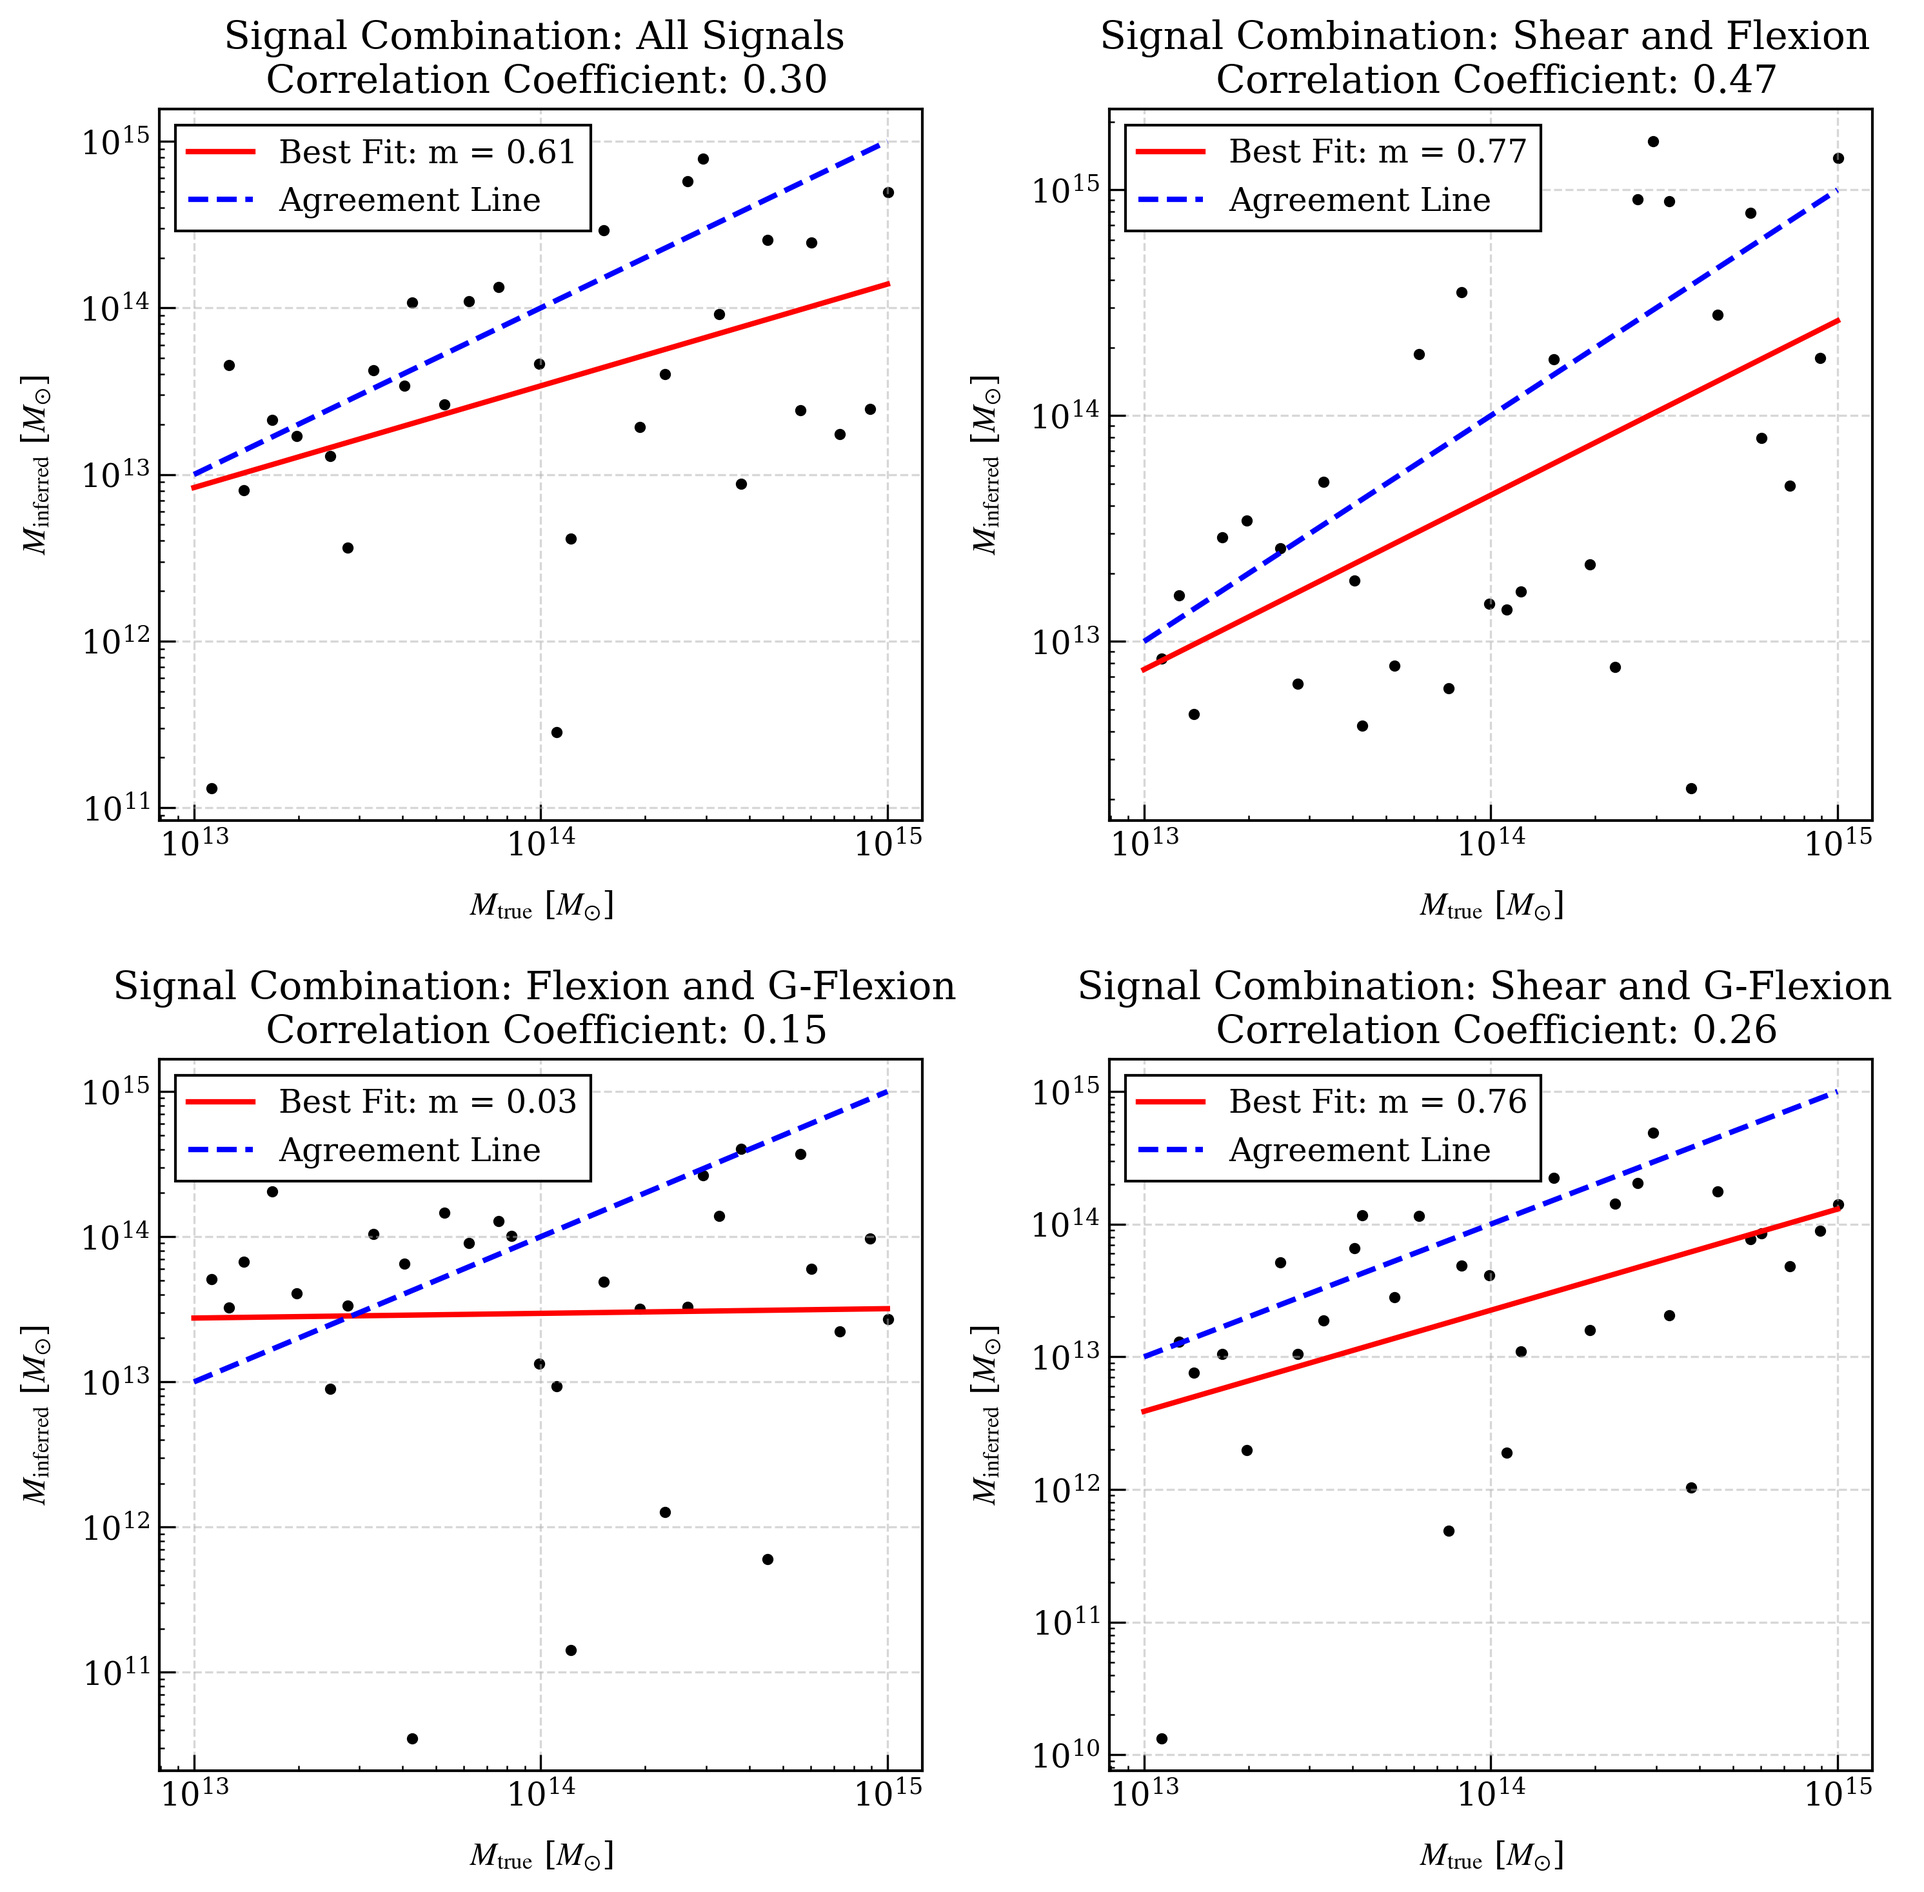
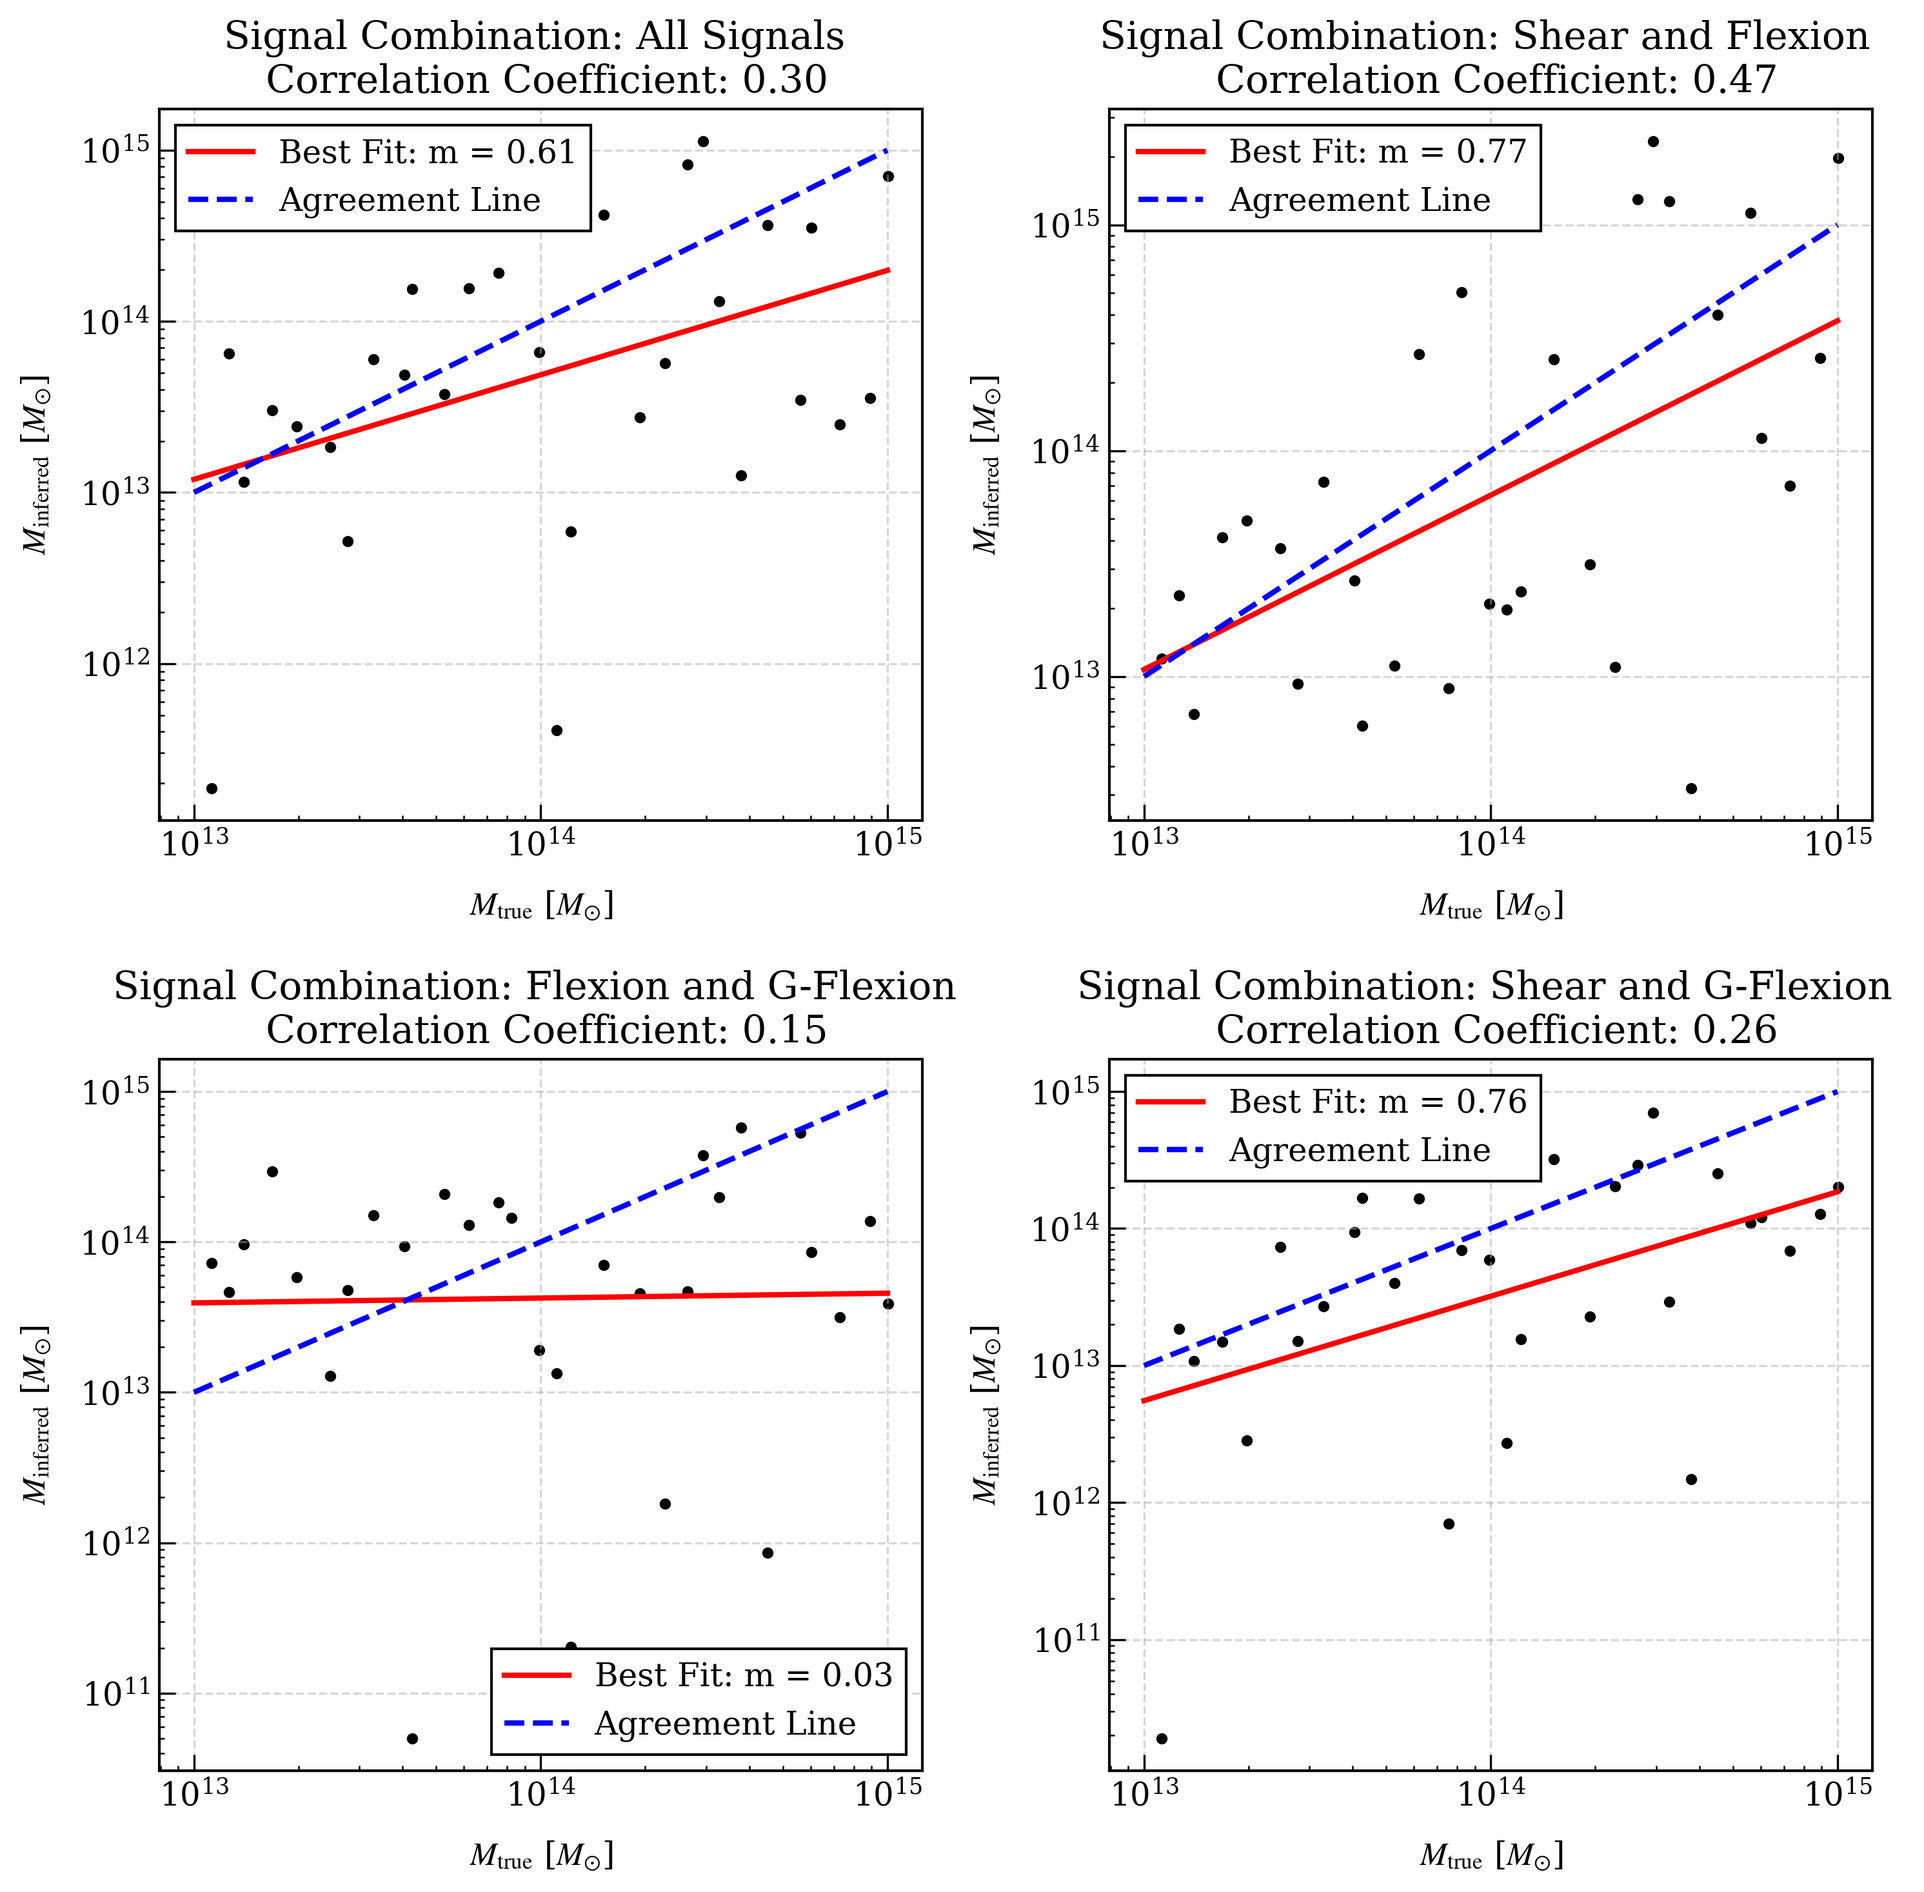
Attempt to run mdark tests in parallel

diff --git a/mdark.py b/mdark.py
@@ -7,6 +7,8 @@ import utils
 import astropy.units as u
 from astropy.cosmology import Planck15 as cosmo
 import pickle
+import concurrent.futures
+import time
 
 dir = 'MDARK/'
 column_names = ['MainHaloID', ' Total Mass', ' Redshift', 'Halo Number', ' Mass Fraction', ' Characteristic Size'] # Column names for the key files
@@ -155,8 +157,8 @@ class Halo:
         kappa_s = rho_s * rs / sigma_c
         F_s = kappa_s * Dl / rs
 
-        f1_1 = np.zeros(len(xs))
-        f1_2 = np.zeros(len(ys))
+        f1 = np.zeros(len(xs))
+        f2 = np.zeros(len(ys))
 
         for i in range(len(xs)):
             dx = xs[i] - self.x
@@ -175,10 +177,10 @@ class Halo:
 
             F_mag = (-2 * F_s / (x**2 - 1)**2) * (2 * x * term_1 - term_3) # In units of inverse radians
             F_mag /= 206265 # Convert to inverse arcseconds
-            f1_1[i] += np.sum(F_mag * np.cos(phi))
-            f1_2[i] += np.sum(F_mag * np.sin(phi))
+            f1[i] += np.sum(F_mag * np.cos(phi))
+            f2[i] += np.sum(F_mag * np.sin(phi))
 
-        return f1_1, f1_2
+        return f1, f2
 
 
     def calc_G_signal(self, xs, ys):
@@ -212,8 +214,8 @@ class Halo:
         kappa_s = rho_s * rs / sigma_c
         F_s = kappa_s * Dl / rs
 
-        f2_1 = np.zeros(len(xs))
-        f2_2 = np.zeros(len(ys))
+        g1 = np.zeros(len(xs))
+        g2 = np.zeros(len(ys))
 
         for i in range(len(xs)):
             dx = xs[i] - self.x
@@ -235,10 +237,10 @@ class Halo:
             
             G_mag = 2 * F_s * (log_term + ((3/x)*(1 - 2*x**2) + term_4) / (x**2 - 1)**2)
             G_mag /= 206265 # Convert to inverse arcseconds 
-            f2_1[i] += np.sum(G_mag * np.cos(3 * phi))
-            f2_2[i] += np.sum(G_mag * np.sin(3 * phi))
+            g1[i] += np.sum(G_mag * np.cos(3 * phi))
+            g2[i] += np.sum(G_mag * np.sin(3 * phi))
         
-        return f2_1, f2_2
+        return g1, g2
 
 
 def fix_file(z):
@@ -508,7 +510,6 @@ def build_lensing_field(halos, z):
     lenses.y -= centroid[1] + np.random.uniform(-10, 10)
 
     xmax = np.max((lenses.x**2 + lenses.y**2)**0.5)
-    print('xmax: {}'.format(xmax))
     
     # Don't allow the field of view to be larger than 2 arcminutes - or smaller than 1 arcminute
     xmax = np.min([xmax, 2*60])
@@ -650,6 +651,8 @@ def build_mass_correlation_plot(file_name, plot_name):
     mass_f_g = results[' Mass_F_G'].values
     mass_gamma_g = results[' Mass_gamma_G'].values
     masses = [mass, mass_gamma_f, mass_f_g, mass_gamma_g]
+    # True mass is in units of M_sun / h - convert others to the same units
+    masses = [mass / h for mass in masses]
     signals = ['All Signals', 'Shear and Flexion', 'Flexion and G-Flexion', 'Shear and G-Flexion']
 
     '''
@@ -696,56 +699,133 @@ def build_mass_correlation_plot(file_name, plot_name):
     plt.show()
 
 
+def run_single_test(ID, z, N_test, signal_choices, result_file):
+    # Run the pipeline for a single cluster, with a given set of signal choices
+    # N_test times. Save the results to a file
+
+    all_masses = []
+    all_candidate_numbers = []
+
+    for _ in range(N_test):
+        halos = find_halos(int(ID), z)
+        true_mass = np.sum(halos.mass)
+
+        halos, sources, xmax = build_lensing_field(halos, z)
+        masses = []
+        candidate_number = []
+
+        for signal_choice in signal_choices:
+            candidate_lenses, _ = pipeline.fit_lensing_field(sources, xmax, flags=False, use_flags=signal_choice)
+            mass = compute_masses(candidate_lenses, z)
+            masses.append(mass)
+            candidate_number.append(len(candidate_lenses.x))
+
+        all_masses.append(masses)
+        all_candidate_numbers.append(candidate_number)
+        print('Finished test {} for ID {}'.format(_, ID))
+
+    # Calculate mean and standard deviation for each type of mass and candidate number
+    mean_masses = np.mean(all_masses, axis=0)
+    std_masses = np.std(all_masses, axis=0)
+    mean_candidate_numbers = np.mean(all_candidate_numbers, axis=0)
+    std_candidate_numbers = np.std(all_candidate_numbers, axis=0)
+    print('Results for ID {}:'.format(ID))
+
+    result = '{}, {}, {}, {}, {}, {}, {}, {}, {}, {}, {}, {}, {}, {}, {}, {}\n'.format(
+        ID, true_mass, 
+        *mean_masses, *std_masses, 
+        len(halos.mass), 
+        *mean_candidate_numbers, *std_candidate_numbers)
+
+    with open(result_file, 'a') as f:
+        f.write(result)
+
+
+def run_test_parallel(ID_file, result_file, z, N_test):
+    IDs = []
+
+    with open(ID_file, 'r') as f:
+        lines = f.readlines()[1:]
+        for line in lines:
+            ID = line.split(',')[0]
+            IDs.append(ID)
+    IDs = IDs[:10] # Just use the first 10 IDs for testing
+
+    header = 'ID, True Mass, Mean Mass_all_signals, Std Mass_all_signals, Mean Mass_gamma_F, Std Mass_gamma_F, Mean Mass_F_G, Std Mass_F_G, Mean Mass_gamma_G, Std Mass_gamma_G, N_halos, Mean Nfound_all_signals, Std Nfound_all_signals, Mean Nfound_gamma_F, Std Nfound_gamma_F, Mean Nfound_F_G, Std Nfound_F_G, Mean Nfound_gamma_G, Std Nfound_gamma_G\n'
+    with open(result_file, 'w') as f:
+        f.write(header)
+
+    signal_choices = [
+        [True, True, True], # All signals
+        [True, True, False], # Shear and flexion
+        [False, True, True], # Flexion and g-flexion
+        [True, False, True] # Shear and g-flexion
+    ]
+
+    with concurrent.futures.ProcessPoolExecutor(max_workers=4) as executor:
+        futures = [executor.submit(run_single_test, ID, z, N_test, signal_choices, result_file) for ID in IDs]
+
+
+
+def build_mass_correlation_plot_errors(file_name, plot_name):
+    # Open the results file and read in the data
+    results = pd.read_csv(file_name)
+    # Get the mass and true mass
+    true_mass = results[' True Mass'].values
+    mean_masses = results[[' Mean Mass_all_signals', ' Mean Mass_gamma_F', ' Mean Mass_F_G', ' Mean Mass_gamma_G']].values
+    std_masses = results[[' Std Mass_all_signals', ' Std Mass_gamma_F', ' Std Mass_F_G', ' Std Mass_gamma_G']].values
+    signals = ['All Signals', 'Shear and Flexion', 'Flexion and G-Flexion', 'Shear and G-Flexion']
+
+    # Plot the results for each signal combination
+    fig, ax = plt.subplots(2, 2, figsize=(10, 10))
+    ax = ax.flatten()
+
+    for i in range(4):
+        # true_mass_temp = true_mass[masses[i] > 0]
+        # masses[i] = masses[i][masses[i] > 0]
+        true_mass_temp = true_mass
+        mean_masses_temp = mean_masses[:, i]
+        std_masses_temp = std_masses[:, i]
+
+        mean_masses_temp = np.abs(mean_masses_temp)
+        if mean_masses_temp.min() == 0:
+            true_mass_temp = true_mass_temp[mean_masses_temp > 0]
+            mean_masses_temp = mean_masses_temp[mean_masses_temp > 0]
+            std_masses_temp = std_masses_temp[mean_masses_temp > 0]
+
+        ax[i].errorbar(true_mass_temp, mean_masses_temp, yerr=std_masses_temp, fmt='o', color='black')
+        ax[i].set_xscale('log')
+        ax[i].set_yscale('log')
+        # Add a line of best fit
+        x = np.linspace(1e13, 1e15, 100)
+        try:
+            m, b = np.polyfit(np.log10(true_mass_temp), np.log10(mean_masses_temp), 1)
+            ax[i].plot(x, 10**(m*np.log10(x) + b), color='red', label='Best Fit: m = {:.2f}'.format(m))
+        except:
+            print('RuntimeWarning: Skipping line of best fit')
+            continue
+        # Plot the line of best fit and an agreement line
+        ax[i].plot(x, x, color='blue', label='Agreement Line', linestyle='--') # Agreement line - use a different linestyle because the paper won't be in color
+        ax[i].legend()
+        ax[i].set_xlabel(r'$M_{\rm true}$ [$M_{\odot}$]')
+        ax[i].set_ylabel(r'$M_{\rm inferred}$ [$M_{\odot}$]')
+        ax[i].set_title('Signal Combination: {} \n Correlation Coefficient: {:.2f}'.format(signals[i], np.corrcoef(true_mass_temp, mean_masses_temp)[0, 1]))
+
+    fig.tight_layout()
+    fig.savefig(plot_name)
+    plt.show()
+
+
 if __name__ == '__main__':
     zs = [0.194, 0.221, 0.248, 0.276]
-
+    start = time.time()
     file = 'MDARK/Halos_0.194.MDARK'
-    test_number = 6
+    test_number = 7
     ID_file = 'Data/MDARK_Test/Test{}/ID_file_{}.csv'.format(test_number, test_number)
     result_file = 'Data/MDARK_Test/Test{}/results_{}.csv'.format(test_number, test_number)
     plot_name = 'Images/MDARK/mass_correlation_{}.png'.format(test_number)
 
-    # build_test_set(30, zs[0], ID_file)
-    run_test(ID_file, result_file, zs[0])
-    build_mass_correlation_plot(result_file, plot_name)
-
-    raise SystemExit
-
-    '''
-    TEST TO MAKE SURE NFW PRODUCED LENSING SIGNALS ARE REASONABLE
-    '''
-
-    # pick a random cluster
-    ID = 11494083558
-    halos = find_halos(ID, zs[0])
-    # Convert x and y to arcseconds (from Mpc)
-    x = halos.x * 3.086 * 10**22 / cosmo.angular_diameter_distance(zs[0]).to(u.meter).value * 206265
-    y = halos.y * 3.086 * 10**22 / cosmo.angular_diameter_distance(zs[0]).to(u.meter).value * 206265
-
-    centroid = np.mean(x), np.mean(y)
-    x = x - centroid[0]
-    y = y - centroid[1]
-    xc = x[0] + 5
-    yc = y[0]
-
-    # update the halos object
-    halos.x = x
-    halos.y = y
-
-    r200 = halos.calc_R200()
-
-    # Evaluate the lensing signals at this centroid
-    gamma1, gamma2 = halos.calc_shear_signal([xc], [yc])
-    f1, f2 = halos.calc_F_signal([xc], [yc])
-    g1, g2 = halos.calc_G_signal([xc], [yc])
-
-    print('For cluster {}:'.format(ID))
-    print('With {} halos'.format(len(halos.x)))
-    print('And a total mass of {:.2e}'.format(np.sum(halos.mass)))
-    print('The r200 is')
-    print(r200)
-    print('And 5 arcseconds from the primary halo, the signals are:')
-    print('Gamma: ({}, {})'.format(gamma1, gamma2))
-    print('F: ({}, {})'.format(f1, f2))
-    print('G: ({}, {})'.format(g1, g2))
-    print('Analysis complete!')
+    run_test_parallel(ID_file, result_file, zs[0], 2)
+    build_mass_correlation_plot_errors(result_file, plot_name)
+    stop = time.time()
+    print('Time taken: {}'.format(stop - start))

diff --git a/pipeline.py b/pipeline.py
@@ -91,7 +91,6 @@ class Source:
         self.g2 += gflex2
 
 
-
 class Lens:
     # Class to store lens information. Each lens has a position (x, y) and an Einstein radius (te)
     def __init__(self, x, y, te, chi2):
